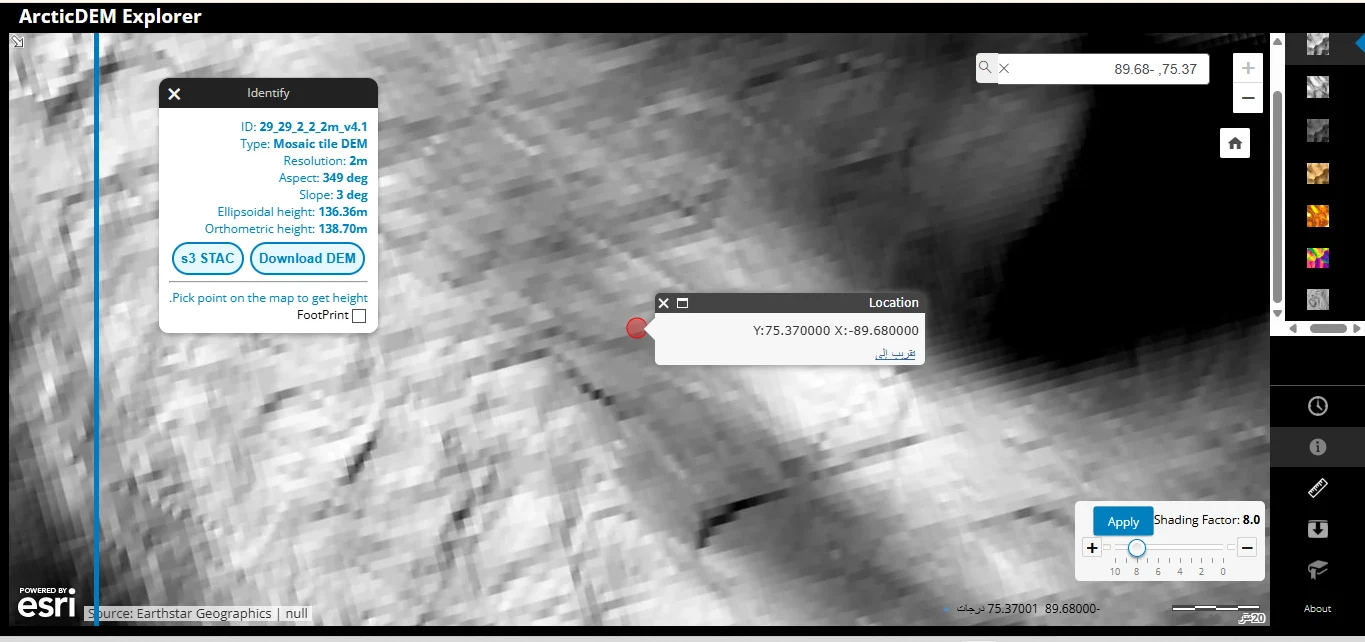
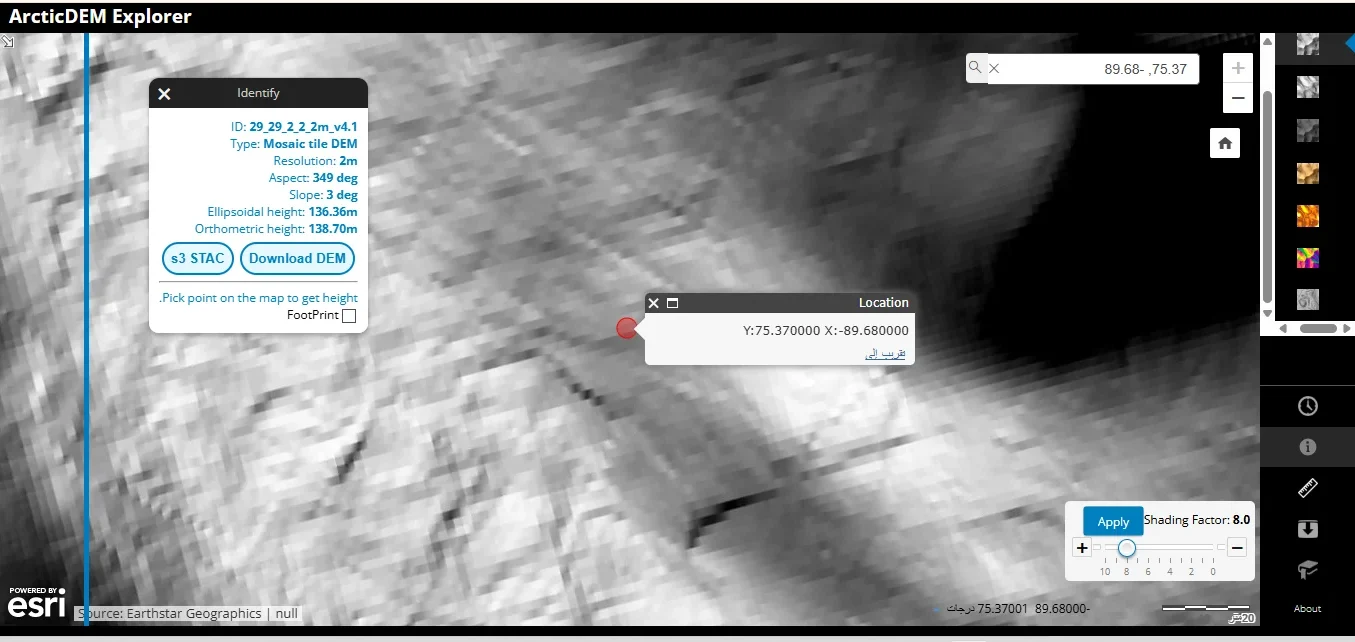
Images fill their frames: no black margins
- Trim built-in black borders (ArcticDEM screenshots, Moon relief,
  Shackleton renders)
- Map viewer uses cover instead of contain; frames use the page colour
  instead of black behind images

diff --git a/assets/css/style.css b/assets/css/style.css
@@ -294,7 +294,7 @@ html[dir="rtl"] .site-card:hover .site-card__go svg { transform: scaleX(-1) tran
 .vs__card { border-radius: var(--radius); overflow: hidden; background: var(--bg-2); border: 1px solid var(--line); display: flex; flex-direction: column; }
 .vs__card--moon { --c: var(--moon); }
 .vs__card--earth { --c: var(--earth); }
-.vs__media { position: relative; aspect-ratio: 16 / 10; overflow: hidden; cursor: zoom-in; border: 0; padding: 0; background: #000; display: block; width: 100%; }
+.vs__media { position: relative; aspect-ratio: 16 / 10; overflow: hidden; cursor: zoom-in; border: 0; padding: 0; background: var(--bg-2); display: block; width: 100%; }
 .vs__media img { width: 100%; height: 100%; object-fit: cover; transform: scale(1.12); }
 .vs__world { position: absolute; top: 14px; inset-inline-start: 14px; display: inline-flex; gap: 8px; align-items: center; padding: 5px 12px; border-radius: 999px; background: rgba(0, 0, 0, .65); backdrop-filter: blur(6px); font-size: 13px; }
 .vs__world i { width: 9px; height: 9px; border-radius: 50%; background: var(--c); }
@@ -399,9 +399,9 @@ html[dir="rtl"] .bar__fill { transform-origin: right center; }
 .legend i { width: 14px; height: 14px; border-radius: 4px; }
 .legend .grad { width: 90px; height: 10px; border-radius: 999px; background: linear-gradient(90deg, #000, #fff); border: 1px solid var(--line-2); }
 html[dir="rtl"] .legend .grad { background: linear-gradient(-90deg, #000, #fff); }
-.map { position: relative; margin: 0; border-radius: var(--radius); overflow: hidden; background: #050506; border: 1px solid var(--line); aspect-ratio: 1; }
+.map { position: relative; margin: 0; border-radius: var(--radius); overflow: hidden; background: var(--bg-2); border: 1px solid var(--line); aspect-ratio: 1; }
 .map button { all: unset; cursor: zoom-in; position: absolute; inset: 0; }
-.map img { position: absolute; inset: 0; width: 100%; height: 100%; object-fit: contain; opacity: 0; }
+.map img { position: absolute; inset: 0; width: 100%; height: 100%; object-fit: cover; object-position: center top; opacity: 0; }
 .map img.is-on { opacity: 1; }
 .map figcaption { position: absolute; inset-inline: 12px; bottom: 12px; display: flex; justify-content: space-between; gap: 8px; pointer-events: none; font-size: 13px; }
 .map figcaption span { background: rgba(0, 0, 0, .7); backdrop-filter: blur(6px); padding: 5px 11px; border-radius: 999px; }
@@ -513,7 +513,7 @@ html[dir="rtl"] .sources a::after { content: "↖"; }
 /* ------------------------------------------------------------------ LIGHTBOX */
 .lightbox { border: 0; padding: 0; background: transparent; max-width: min(1200px, 94vw); max-height: 92vh; color: var(--text); overflow: visible; }
 .lightbox::backdrop { background: rgba(5, 6, 8, .88); backdrop-filter: blur(6px); }
-.lightbox img { max-width: 100%; max-height: 80vh; margin-inline: auto; border-radius: var(--radius-sm); background: #000; }
+.lightbox img { max-width: 100%; max-height: 80vh; margin-inline: auto; border-radius: var(--radius-sm); }
 .lightbox__cap { text-align: center; color: var(--muted); max-width: 70ch; margin: 14px auto 0; font-size: 15px; }
 .lightbox__close { position: absolute; top: -18px; inset-inline-end: -18px; width: 44px; height: 44px; border-radius: 50%; border: 0; background: var(--text); color: var(--bg); font-size: 26px; line-height: 1; z-index: 2; }
 
@@ -1177,3 +1177,6 @@ html[data-theme="light"] .theme-btn .i-moon { transform: translateY(-120%) rotat
 /* circular reveal when switching themes (View Transitions) */
 ::view-transition-old(root), ::view-transition-new(root) { animation: none; mix-blend-mode: normal; }
 @media (max-width: 860px) { .theme-btn { margin-inline-start: auto; } .nav .lang { margin-inline-start: 6px; } }
+
+/* every image fills its frame (no letterboxing) */
+.shot__img img, .site-card__media img, .analog__media img, .vs__media img, .thumb img { object-fit: cover; }

diff --git a/index.html b/index.html
@@ -10,7 +10,7 @@
   <link rel="preconnect" href="https://fonts.googleapis.com">
   <link rel="preconnect" href="https://fonts.gstatic.com" crossorigin>
   <link href="https://fonts.googleapis.com/css2?family=Readex+Pro:wght@300;400;500;600;700&family=Michroma&family=Barlow+Condensed:wght@500;600&family=JetBrains+Mono:wght@400;500&display=swap" rel="stylesheet">
-  <link rel="stylesheet" href="assets/css/style.css?v=28">
+  <link rel="stylesheet" href="assets/css/style.css?v=29">
   <script>
     /* Apply the saved language before first paint (avoids a flash of the wrong direction). */
     (function () {
@@ -247,13 +247,13 @@
 
   <script src="https://cdn.jsdelivr.net/npm/three@0.149.0/build/three.min.js"></script>
 
-  <script src="assets/data/profile.js?v=28"></script>
-  <script src="assets/data/terrain.js?v=28"></script>
-  <script src="assets/data/haughton-dem.js?v=28"></script>
-  <script src="assets/js/data.js?v=28"></script>
-  <script src="assets/js/i18n.js?v=28"></script>
-  <script src="assets/js/terrain.js?v=28"></script>
-  <script src="assets/js/app.js?v=28"></script>
-  <script src="assets/js/globes.js?v=28"></script>
+  <script src="assets/data/profile.js?v=29"></script>
+  <script src="assets/data/terrain.js?v=29"></script>
+  <script src="assets/data/haughton-dem.js?v=29"></script>
+  <script src="assets/js/data.js?v=29"></script>
+  <script src="assets/js/i18n.js?v=29"></script>
+  <script src="assets/js/terrain.js?v=29"></script>
+  <script src="assets/js/app.js?v=29"></script>
+  <script src="assets/js/globes.js?v=29"></script>
 </body>
 </html>
